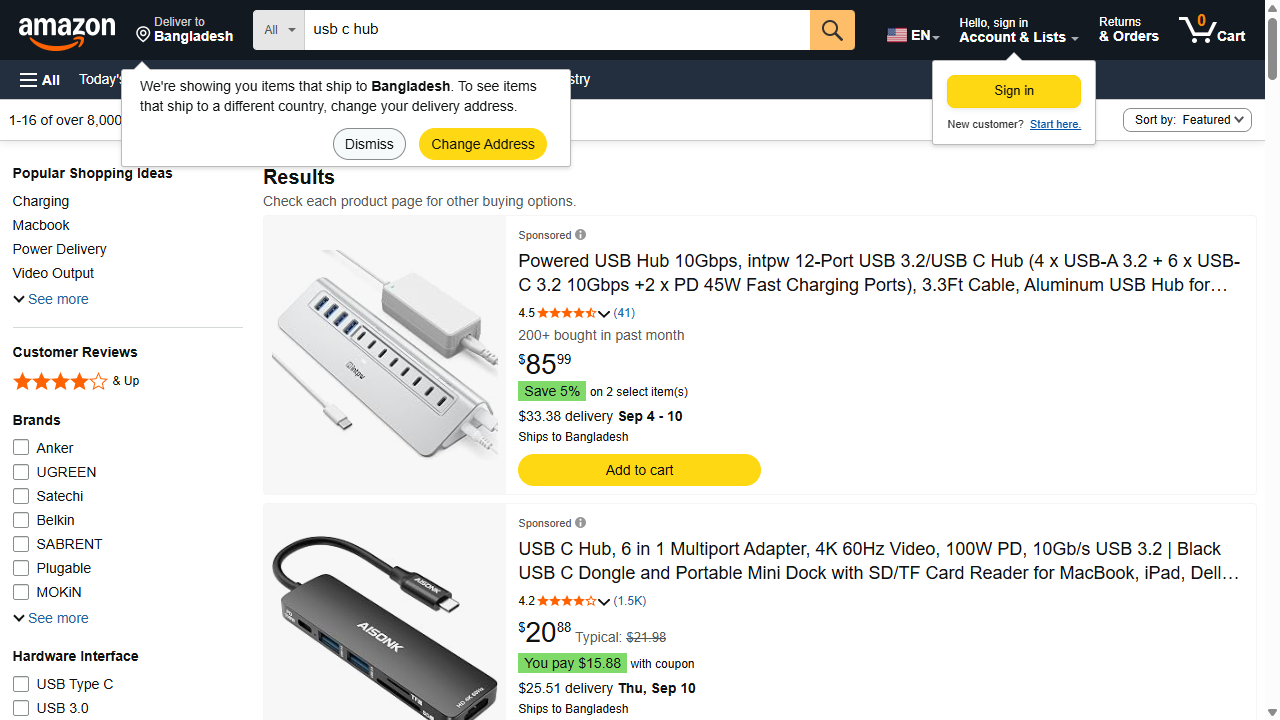
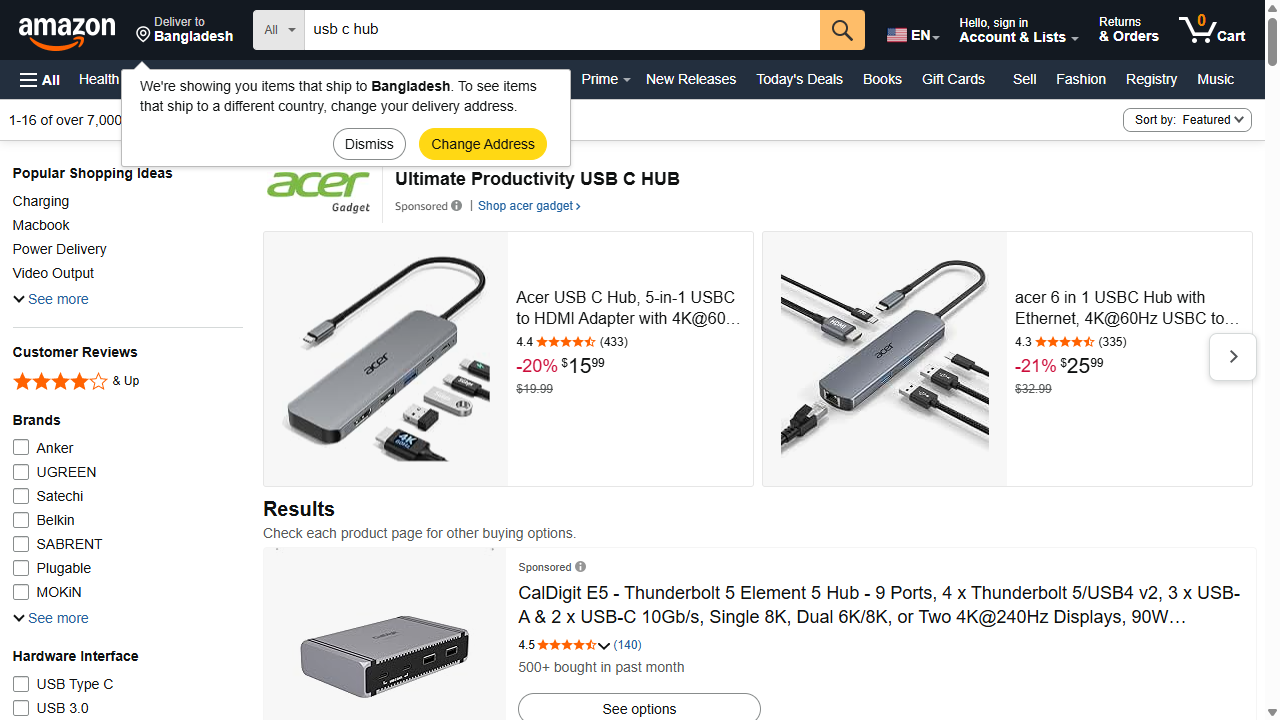
info extracted from product

diff --git a/src/scraper/collect_data.py b/src/scraper/collect_data.py
@@ -1,5 +1,5 @@
 from playwright.sync_api import sync_playwright
-import json, csv
+import json, csv, re
 from pathlib import Path
 
 SEARCH_URL = "https://www.amazon.com/s?k=usb+c+hub"
@@ -31,6 +31,60 @@ def get_products_from_page(page):
         })
 
     return products
+
+def get_product_details(page, asin):
+    product_url = f"https://www.amazon.com/dp/{asin}"
+    page.goto(product_url)
+    page.wait_for_timeout(5000)
+
+    title_element = page.query_selector("#productTitle")
+    title = title_element.inner_text().strip() if title_element else ""
+
+    price_element = page.query_selector("#apex-pricetopay-accessibility-label")
+    if price_element:
+        price_text = price_element.inner_text()
+        match = re.search(r"\$[\d,]+\.\d{2}", price_text)
+        price = match.group() if match else ""
+    else:
+        price = ""
+
+    return {
+        "asin": asin,
+        "title": title,
+        "price": price,
+    }
+
+def get_reviews(page):
+    reviews = []
+
+    review_blocks = page.query_selector_all('div[data-hook="review"]')
+
+    for block in review_blocks:
+        name_element = block.query_selector("span.a-profile-name")
+        name = name_element.inner_text() if name_element else ""
+
+        rating_element = block.query_selector('i[data-hook="review-star-rating"] span.a-icon-alt')
+        rating = rating_element.inner_text() if rating_element else ""
+
+        title_element = block.query_selector('[data-hook="reviewTitle"]')
+        title = title_element.inner_text().strip() if title_element else ""
+
+        verified_element = block.query_selector('span[data-hook="avp-badge"]')
+        verified = True if verified_element else False
+
+        paragraph_elements = block.query_selector_all('div[data-hook="reviewRichContentContainer"] p span')
+        paragraphs = [p.inner_text().strip() for p in paragraph_elements if p.inner_text().strip()]
+        body = " ".join(paragraphs)
+
+        reviews.append({
+            "reviewer_name": name,
+            "rating": rating,
+            "title": title,
+            "verified_purchase": verified,
+            "body": body,
+        })
+
+    return reviews
 
 def save_products(products):
     DATA_DIR.mkdir(parents=True, exist_ok=True)
@@ -73,4 +127,19 @@ def open_search_page():
 
 
 if __name__ == "__main__":
-    open_search_page()
+    with sync_playwright() as playwright:
+        browser = playwright.chromium.launch(headless=False)
+        page = browser.new_page()
+
+        page.goto(SEARCH_URL)
+        page.wait_for_timeout(5000)
+
+        details = get_product_details(page, "B0BR3M8XHK")
+        print(details)
+
+        reviews = get_reviews(page)
+        print(f"\nFound {len(reviews)} reviews")
+        for review in reviews:
+            print(review)
+
+        browser.close()
